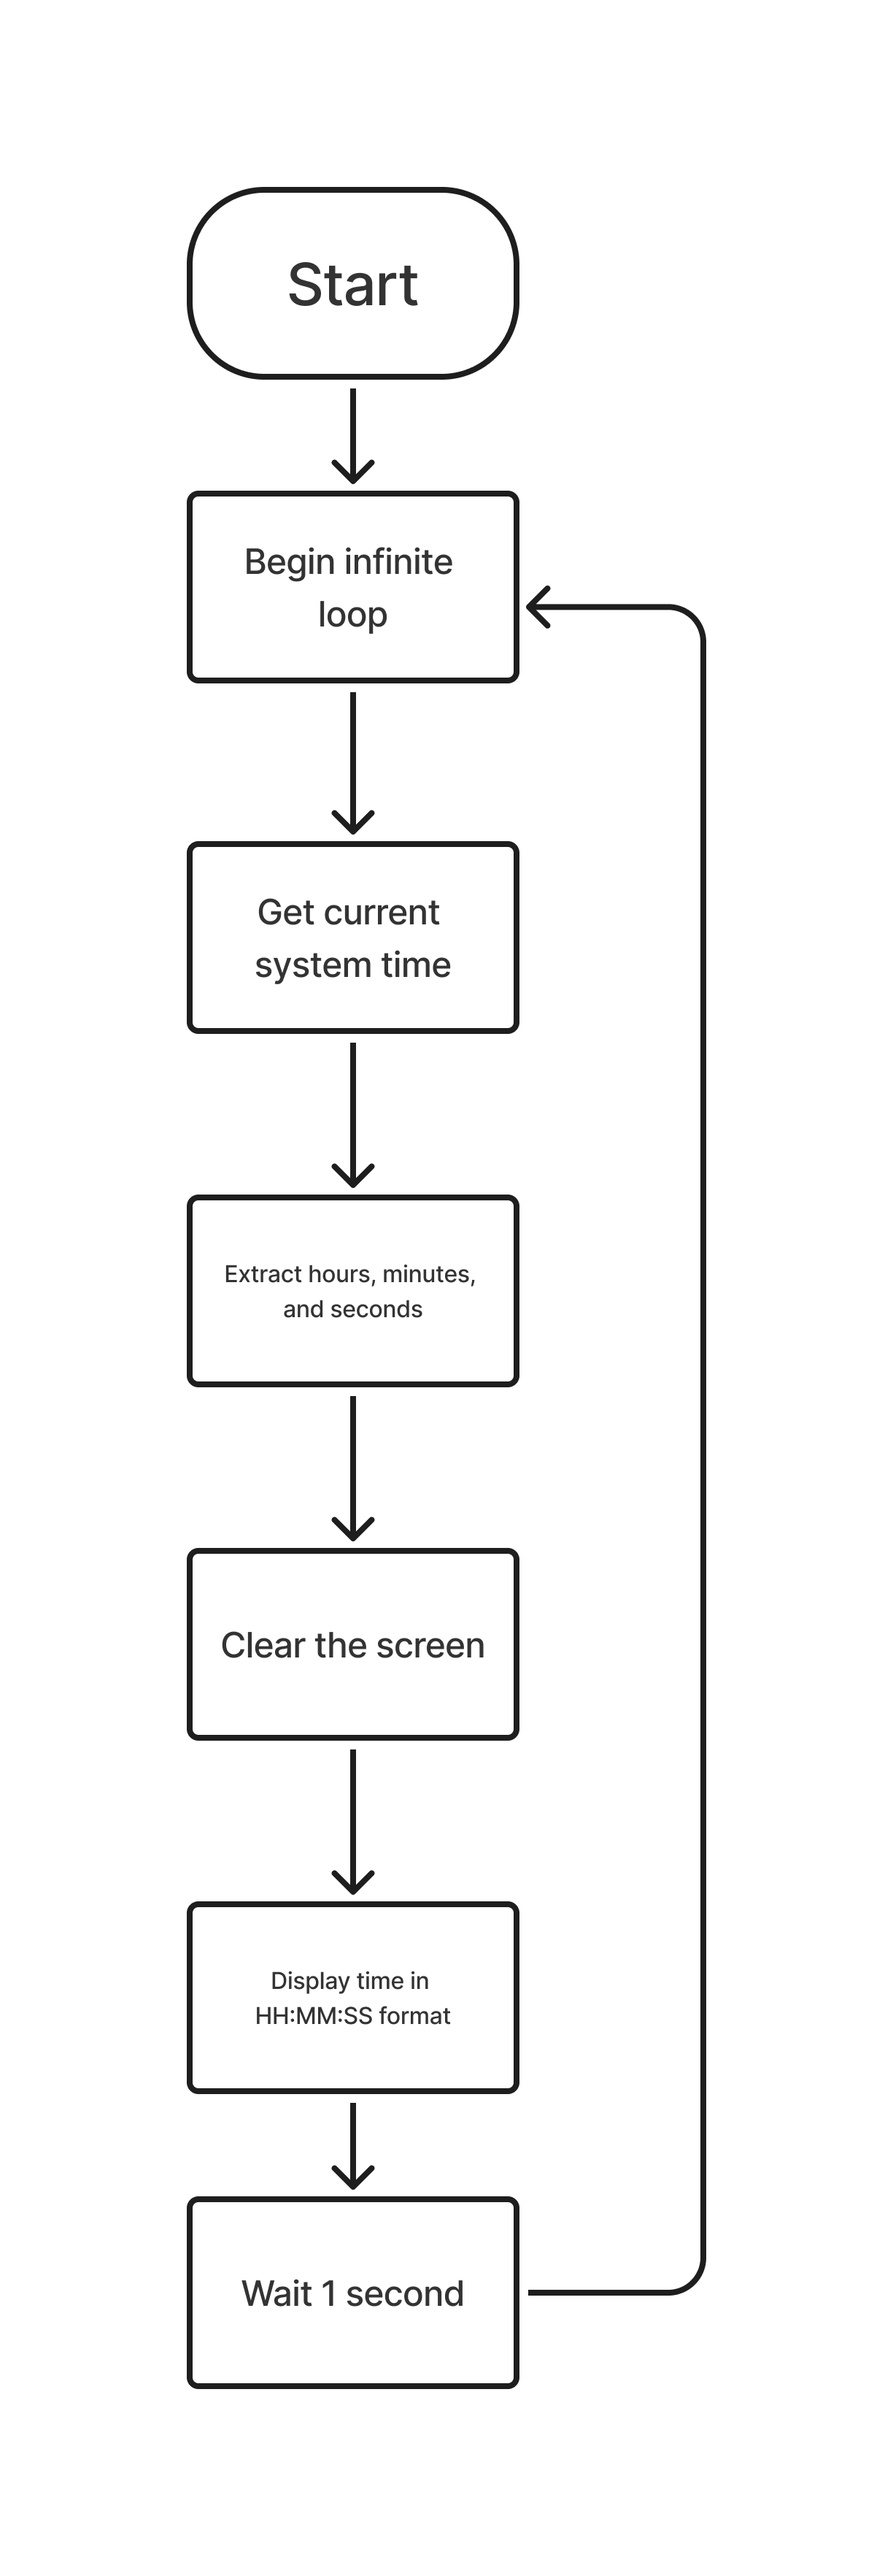
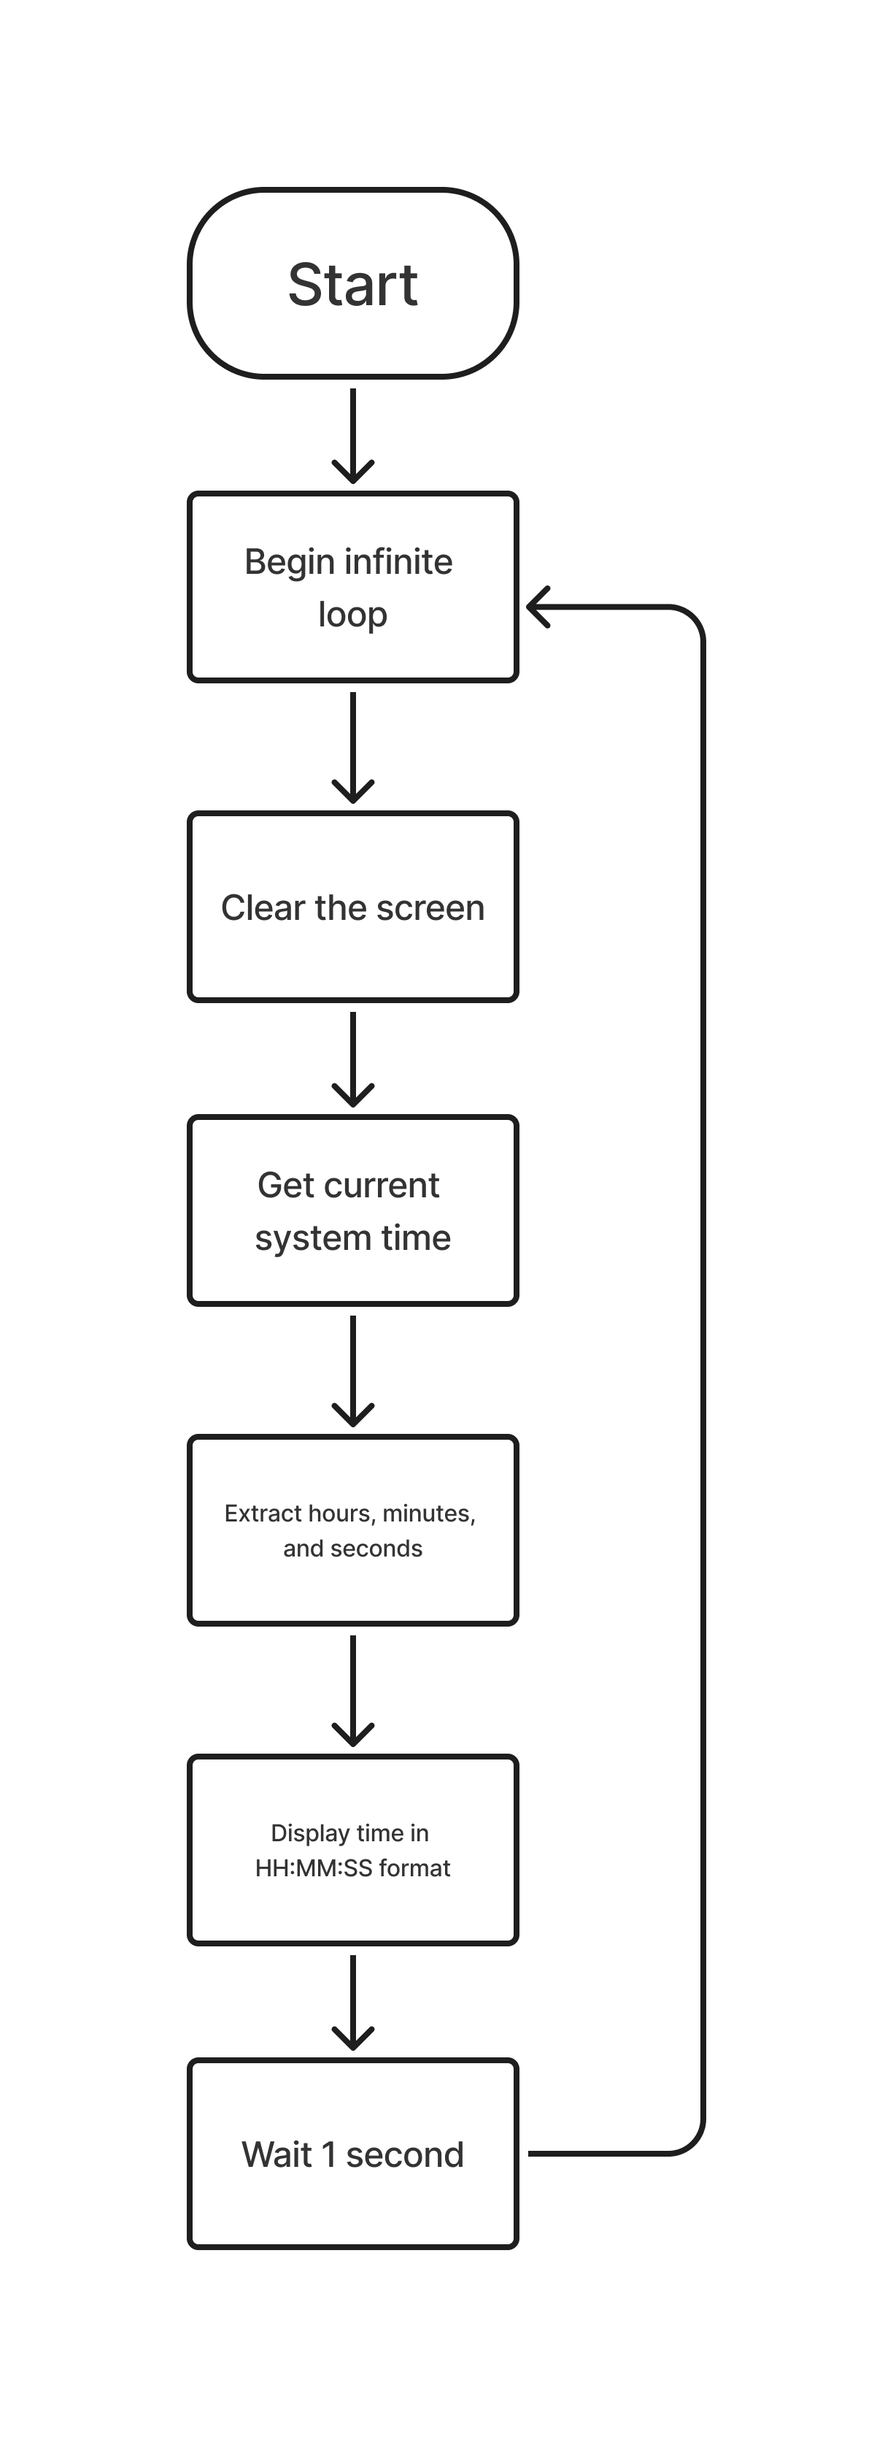
Final commit

diff --git a/24-Hour-Digital-Clock.py b/24-Hour-Digital-Clock.py
@@ -1,17 +1,31 @@
-import time
-import os
+import time  # For accessing system time and pausing
+import os  # For clearing the console screen
 
+
+def get_current_time():  # Retrieves the current local system time
+    return time.localtime()  # Returns a struct with hour, minute, second
+
+
+def clear_screen():  # Clears the terminal/console screen
+    os.system("cls" if os.name == "nt" else "clear")
+
+
+def display_time(current_time):  # Formats and prints the current time as HH:MM:SS
+    print(
+        f"{current_time.tm_hour:02}:{current_time.tm_min:02}:{current_time.tm_sec:02}"
+    )
+
+
+# Main program
 print("=== 24-Hour Live Digital Clock ===")
 print("Press Ctrl+C to stop\n")
 
 try:
     while True:
-        os.system("cls" if os.name == "nt" else "clear")
-
-        now = time.localtime()
-        print(f"{now.tm_hour:02}:{now.tm_min:02}:{now.tm_sec:02}")
-
-        time.sleep(1)
+        clear_screen()  # Clear previous clock display
+        now = get_current_time()  # Get current system time
+        display_time(now)  # Display formatted time
+        time.sleep(1)  # Wait for 1 second before updating
 
 except KeyboardInterrupt:
     print("\nClock stopped. Goodbye!")
